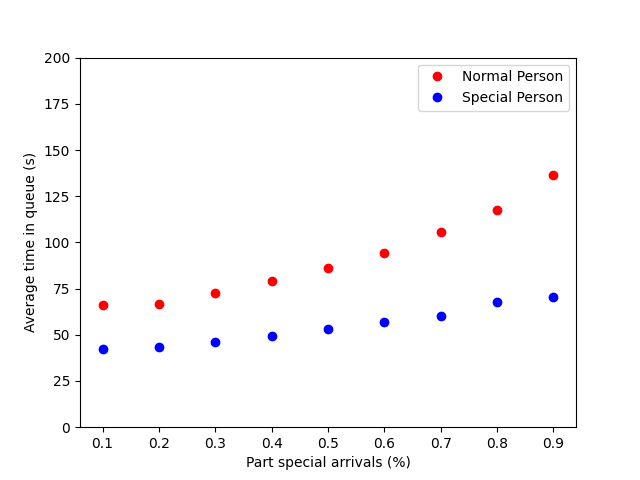
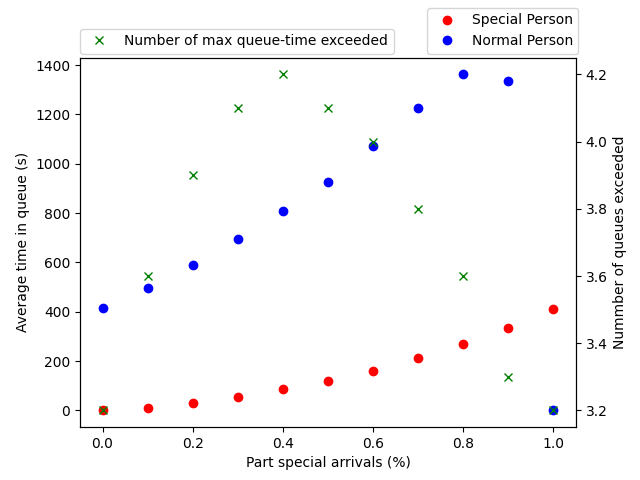
final task2

diff --git a/assignments/assign1/task4_v2/MainSimulation.java b/assignments/assign1/task4_v2/MainSimulation.java
@@ -7,18 +7,17 @@ import java.util.ArrayList;
 public class MainSimulation extends Global {
     static final double[] arrayOfParts = { 0.0, 0.1, 0.2, 0.3, 0.4, 0.5, 0.6, 0.7, 0.8, 0.9, 1 };
     static final int[] nbrOfArrivalsArr = { 20, 50, 100, 1000 };
-    static final int nbrOfSimulations = 1000;
+    static final int nbrOfSimulations = 100000;
     public static ArrayList<ArrayList<double[]>> finalArray = new ArrayList<>();
 
     public static void main(String[] args) throws InterruptedException, IOException {
-        // partOne();
-        partTwo();
-
+        // partOne(); //ONE QUEUE
+        partTwo(); // TWO QUEUES
     }
 
     public static void partOne() throws InterruptedException, IOException {
-
-        genFinalArray(); // runs sim and gen array containing all nbrOfArrivals with all parts
+        int typeOfGenerator = GEN_ARRIVAL_ONE_CASHIER;
+        genFinalArray(typeOfGenerator); // runs sim and gen array containing all nbrOfArrivals with all parts
         // evry diff part is ran "nbrOfSimulations" times'
         int arrivalIndex = 1;
         for (ArrayList<double[]> nbrOfarrivaList : finalArray) {
@@ -32,7 +31,7 @@ public class MainSimulation extends Global {
 
     public static void partTwo() throws InterruptedException, IOException {
 
-        genFinalArray(); // runs sim and gen array containing all nbrOfArrivals with all parts
+        genFinalArray(GEN_ARRIVAL_TWO_CASHIER); // runs sim and gen array containing all nbrOfArrivals with all parts
         // evry diff part is ran "nbrOfSimulations" times'
         int arrivalIndex = 1;
         for (ArrayList<double[]> nbrOfarrivaList : finalArray) {
@@ -44,11 +43,11 @@ public class MainSimulation extends Global {
 
     }
 
-    public static void genFinalArray() {
+    public static void genFinalArray(int generatorType) {
         for (int nbrOfArrivals : nbrOfArrivalsArr) {
             ArrayList<double[]> arrListOfParts = new ArrayList<>();
             for (double partSpecial : arrayOfParts) {
-                double[] arrOfParts = runMultipleSim(partSpecial, nbrOfArrivals);
+                double[] arrOfParts = runMultipleSim(partSpecial, nbrOfArrivals, generatorType);
                 arrListOfParts.add(arrOfParts);
             }
             finalArray.add(arrListOfParts);
@@ -56,14 +55,14 @@ public class MainSimulation extends Global {
 
     }
 
-    public static double[] runMultipleSim(double partSpecial, int nbrOfArrivals) {
+    public static double[] runMultipleSim(double partSpecial, int nbrOfArrivals, int generatorType) {
         int i = 0;
         double accTotalNormalAvgTime = 0;
         double accTotalSpecialAvgTime = 0;
         int accTotalNumberOfExceedTime = 0;
 
         while (i < nbrOfSimulations) {
-            double[] totalAvgTimeArr = runSingleSim(partSpecial, nbrOfArrivals);
+            double[] totalAvgTimeArr = runSingleSim(partSpecial, nbrOfArrivals, generatorType);
             accTotalNormalAvgTime += totalAvgTimeArr[1];
             accTotalSpecialAvgTime += totalAvgTimeArr[2];
             accTotalNumberOfExceedTime += totalAvgTimeArr[3];
@@ -78,26 +77,37 @@ public class MainSimulation extends Global {
         return arr;
     }
 
-    public static double[] runSingleSim(double partSpecial, int nbrOfArrivals) {
+    public static double[] runSingleSim(double partSpecial, int nbrOfArrivals, int generatorType) {
 
         Signal actSignal;
         new SignalList();
 
-        QS qs = new QS();
+        QS qs1 = new QS();
+        QS qs2 = new QS();
 
-        Gen generator = new Gen(partSpecial, nbrOfArrivals, qs, null);
+        Gen generator = new Gen(partSpecial, nbrOfArrivals, qs1, qs2);
 
-        SignalList.SendSignal(GEN_ARRIVAL, generator, time);
+        SignalList.SendSignal(generatorType, generator, time);
 
-        while (!qs.systemIsDone) {
+        while (!qs1.systemIsDone && !qs2.systemIsDone) {
 
             actSignal = SignalList.FetchSignal();
             time = actSignal.arrivalTime;
             actSignal.destination.TreatSignal(actSignal);
         }
-        double[] arr = { partSpecial, qs.avgNormalTimeInQueue(), qs.avgSpecialTimeInQueue(), qs.nbrOfQueueTimeExeeded };
 
-        return arr;
+        if (generatorType == GEN_ARRIVAL_TWO_CASHIER) {
+            double[] arr = { partSpecial, (qs1.avgNormalTimeInQueue() + qs2.avgNormalTimeInQueue()) / 2,
+                    (qs1.avgSpecialTimeInQueue() + qs2.avgSpecialTimeInQueue()) / 2,
+                    (qs1.nbrOfQueueTimeExeeded + qs2.nbrOfQueueTimeExeeded) / 2 };
+            return arr;
+        } else {
+            double[] arr = { partSpecial, qs1.avgNormalTimeInQueue(),
+                    qs1.avgSpecialTimeInQueue(),
+                    qs1.nbrOfQueueTimeExeeded };
+            return arr;
+
+        }
 
     }
 
@@ -114,9 +124,9 @@ public class MainSimulation extends Global {
         System.out.println("***********************");
         for (double[] arrOfParts : nbrOfArrivaList) {
             fw.write(arrOfParts[0] + " " + Math.round(arrOfParts[1]) + " " + Math.round(arrOfParts[2]) + " "
-                    + arrOfParts[3] + "\r\n");
+                    + Math.round(arrOfParts[3]) + "\r\n");
             System.out.println((arrOfParts[0] + " " + Math.round(arrOfParts[1]) + " " + Math.round(arrOfParts[2]) + " "
-                    + arrOfParts[3]));
+                    + Math.round(arrOfParts[3])));
 
         }
         fw.close();

diff --git a/assignments/assign1/task4_v2/Gen.java b/assignments/assign1/task4_v2/Gen.java
@@ -24,29 +24,66 @@ public class Gen extends Proc {
     public void TreatSignal(Signal x) {
 
         switch (x.signalType) {
-            case GEN_ARRIVAL:
-                handleArrivals();
+            case GEN_ARRIVAL_ONE_CASHIER:
+                handleArrivalsOneCashier();
+                // genTest();
+                break;
+            case GEN_ARRIVAL_TWO_CASHIER:
+                handleArrivalsTwoCashiers();
                 // genTest();
                 break;
         }
+
     }
 
-    private void handleArrivals() {
+    private void handleArrivalsTwoCashiers() {
         arrivalIdx++;
 
         double nextTime = expDistPdf(lambda);
 
-        generateArrival(partSpecial);
+        generateArrivalTwoCashiers(partSpecial);
+
+        if (arrivalIdx == wantedNbrOfArrivals) {
+            SignalList.SendSignal(LAST_ARRIVAL_SENT, qs1, time);
+            SignalList.SendSignal(LAST_ARRIVAL_SENT, qs2, time);
+            return;
+        }
+        SignalList.SendSignal(GEN_ARRIVAL_TWO_CASHIER, this, time + nextTime);
+    }
+
+    private void generateArrivalTwoCashiers(double partSpecial) {
+
+        if (rand.nextDouble() > partSpecial) {
+            if (qs1.inSystem.size() > qs2.inSystem.size()) {
+                SignalList.SendSignal(NORMAL_ARRIVAL, qs2, time);
+            } else {
+                SignalList.SendSignal(NORMAL_ARRIVAL, qs1, time);
+            }
+        } else {
+            if (qs1.inSystem.size() > qs2.inSystem.size()) {
+                SignalList.SendSignal(SPECIAL_ARRIVAL, qs2, time);
+            } else {
+                SignalList.SendSignal(SPECIAL_ARRIVAL, qs1, time);
+            }
+        }
+
+    }
+
+    private void handleArrivalsOneCashier() {
+        arrivalIdx++;
+
+        double nextTime = expDistPdf(lambda);
+
+        generateArrivalOneCashier(partSpecial);
 
         if (arrivalIdx == wantedNbrOfArrivals) {
             SignalList.SendSignal(LAST_ARRIVAL_SENT, qs1, time);
             return;
         }
-
-        SignalList.SendSignal(GEN_ARRIVAL, this, time + nextTime);
+        SignalList.SendSignal(GEN_ARRIVAL_ONE_CASHIER, this, time + nextTime);
     }
 
-    private void generateArrival(double partSpecial) {
+    private void generateArrivalOneCashier(double partSpecial) {
 
         if (rand.nextDouble() > partSpecial) {
             SignalList.SendSignal(NORMAL_ARRIVAL, qs1, time);

diff --git a/main.py b/main.py
@@ -25,6 +25,7 @@ with open("./task_4_1_Arrivals.txt") as f:
         
     fig,ax1= plt.subplots()
     ax2 = ax1.twinx()
+    ax2.set_ylim(bottom=0.)
     ax1.plot(x, aY1, 'o', color='red', label = "Special Person")
     ax1.plot(x, bY1, 'o', color='blue', label = "Normal Person")
     ax2.plot(x, aY2, 'x', color='green', label = "Number of max queue-time exceeded")
@@ -35,7 +36,7 @@ with open("./task_4_1_Arrivals.txt") as f:
     ax1.legend(loc=(0.7,1.01))
     ax2.legend(loc= (0.0,1.01)) 
     
-    plt.savefig('task4_20.png')
+    plt.savefig('task4_20_two_queues.png')
     
     
  
@@ -57,6 +58,7 @@ with open("./task_4_2_Arrivals.txt") as f:
         
     fig,ax1= plt.subplots()
     ax2 = ax1.twinx()
+    ax2.set_ylim(bottom=0.)
     ax1.plot(x, aY1, 'o', color='red', label = "Special Person")
     ax1.plot(x, bY1, 'o', color='blue', label = "Normal Person")
     ax2.plot(x, aY2, 'x', color='green', label = "Number of max queue-time exceeded")
@@ -67,7 +69,7 @@ with open("./task_4_2_Arrivals.txt") as f:
     ax1.legend(loc=(0.7,1.01))
     ax2.legend(loc= (0.0,1.01)) 
     
-    plt.savefig('task4_50.png')
+    plt.savefig('task4_50_two_queues.png')
     
     
  
@@ -89,6 +91,7 @@ with open("./task_4_3_Arrivals.txt") as f:
         
     fig,ax1= plt.subplots()
     ax2 = ax1.twinx()
+    ax2.set_ylim(bottom=0.)
     ax1.plot(x, aY1, 'o', color='red', label = "Special Person")
     ax1.plot(x, bY1, 'o', color='blue', label = "Normal Person")
     ax2.plot(x, aY2, 'x', color='green', label = "Number of max queue-time exceeded")
@@ -99,7 +102,7 @@ with open("./task_4_3_Arrivals.txt") as f:
     ax1.legend(loc=(0.7,1.01))
     ax2.legend(loc= (0.0,1.01)) 
     
-    plt.savefig('task4_100.png')
+    plt.savefig('task4_100_two_queues.png')
     
     
  
@@ -131,5 +134,5 @@ with open("./task_4_4_Arrivals.txt") as f:
     ax1.legend(loc=(0.7,1.01))
     ax2.legend(loc= (0.0,1.01)) 
     
-    plt.savefig('task4_1000.png')
+    plt.savefig('task4_1000_two_queues.png')
         

diff --git a/assignments/assign1/task4_v2/QS.java b/assignments/assign1/task4_v2/QS.java
@@ -1,6 +1,5 @@
 package assign1.task4_v2;
 
-import java.nio.channels.NonWritableChannelException;
 import java.util.ArrayList;
 import java.util.Random;
 
@@ -24,15 +23,12 @@ public class QS extends Proc {
         switch (x.signalType) {
             case NORMAL_ARRIVAL:
                 handleNormalArrival();
-                // handleSpecialArrival();
-                // System.out.println(inSystem);
                 break;
             case SERVED:
                 handleServed();
                 break;
             case SPECIAL_ARRIVAL:
                 handleSpecialArrival();
-                // System.out.println(inSystem);
                 break;
             case LAST_ARRIVAL_SENT:
                 handleLastArrival();

diff --git a/assignments/assign1/task4_v2/Global.java b/assignments/assign1/task4_v2/Global.java
@@ -1,7 +1,7 @@
 package assign1.task4_v2;
 
 public class Global {
-    public static final int GEN_ARRIVAL_ONE_CASHIER = 1, GEN_ARRIVAL = 2;
+    public static final int GEN_ARRIVAL_ONE_CASHIER = 1, GEN_ARRIVAL_TWO_CASHIER =2;
     public static final int NORMAL_ARRIVAL = 1, SERVED = 2, SPECIAL_ARRIVAL = 3, LAST_ARRIVAL_SENT = 4,
             DONE_IN_QUEUE = 5;
     public static final String NORMAL = "Normal", SPECIAL = "Special";

diff --git a/assignments/assign1/task4/Customer.java b/assignments/assign1/task4/Customer.java
@@ -44,10 +44,13 @@ public class Customer {
 
     @Override
     public boolean equals(Object o) {
-        final Customer other = (Customer) o;
-        return other.type == type;
-
-    }
+        if (o instanceof Customer) {
+          //id comparison
+          Customer c = (Customer)o;
+          return c.type.equals(type);
+        }
+        return false;
+      }
 
     @Override
     public String toString() {

diff --git a/assignments/assign1/task5_v2/MainSimulation.java b/assignments/assign1/task5_v2/MainSimulation.java
@@ -10,9 +10,10 @@ public class MainSimulation extends Global {
     ArrayList<QS> queues = genQueues(5);
 
     Dispatcher dispatcher = new Dispatcher(queues);
+    // dispatcher.algorithm = SMALLEST_NBR_JOBS;
     dispatcher.algorithm = SMALLEST_NBR_JOBS;
     // 0.11, 0.15 and 2.0
-    dispatcher.mean = 2.0;
+    dispatcher.mean = 0.11;
 
     Sampler sampler = new Sampler(queues);
 

diff --git a/assignments/assign1/task3/State.java b/assignments/assign1/task3/State.java
@@ -9,7 +9,7 @@ class State extends GlobalSimulation {
     public int nbrArrivalQ1 = 0;
     public int nbrRejectedQ1 = 0;
 
-    public double X = 0.01; // mean time between arrivals
+    public double X = 1/1.5; // mean time between arrivals
     public double serviceTimeQ1 = 1;
     public double serviceTimeQ2 = 1;
     public double measureMean = 5;

diff --git a/assignments/assign1/task1/MainSimulation.java b/assignments/assign1/task1/MainSimulation.java
@@ -5,7 +5,7 @@ import java.io.*;
 public class MainSimulation extends GlobalSimulation {
 
     public static void main(String[] args) throws IOException {
-        // part2();
+        part2();
         part1();
     }
 
